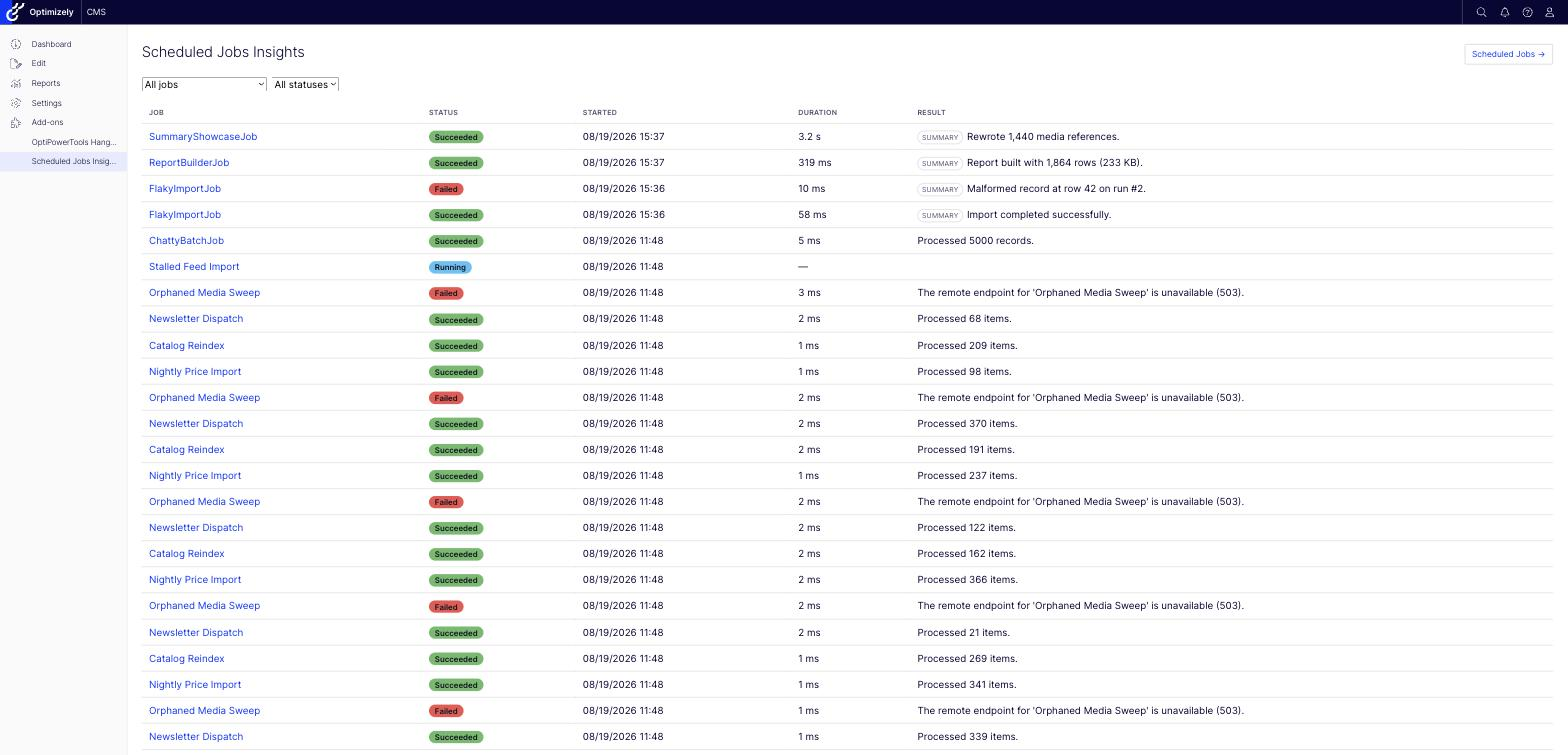
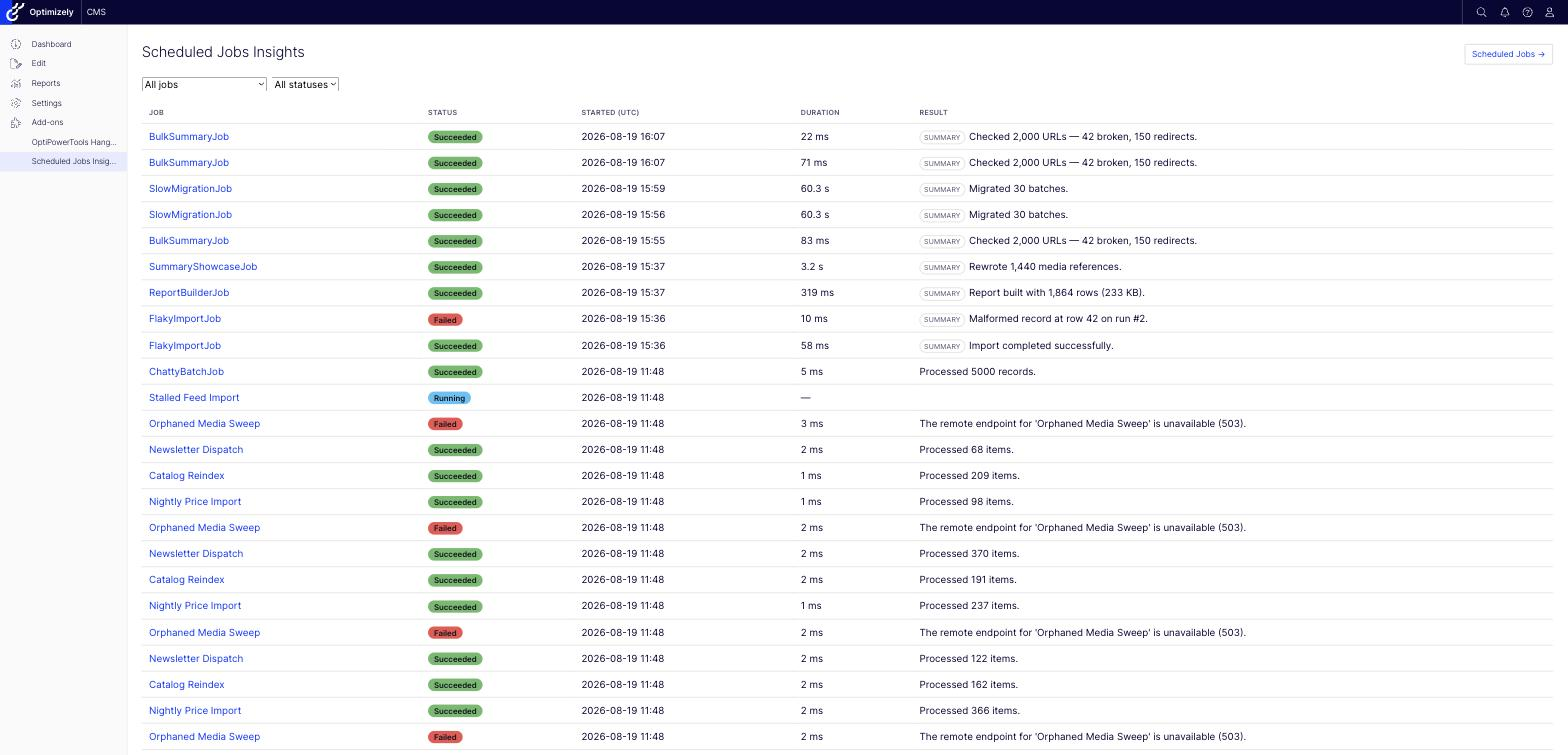
Enhance display formatting for timestamps and metrics to ensure invariant culture across environments

diff --git a/tests/OptiPowerTools.ScheduledJobsInsights.Tests/Components/DisplayFormatTests.cs b/tests/OptiPowerTools.ScheduledJobsInsights.Tests/Components/DisplayFormatTests.cs
@@ -1,0 +1,117 @@
+using System.Globalization;
+using OptiPowerTools.ScheduledJobsInsights.Components.Shared;
+
+namespace OptiPowerTools.ScheduledJobsInsights.Tests.Components;
+
+public class DisplayFormatTests
+{
+    /// <summary>
+    /// A culture whose separators are the mirror image of the invariant ones, so any accidental
+    /// reliance on the ambient culture shows up as a swapped comma and period rather than silently
+    /// passing on a developer machine that happens to be set to en-US.
+    /// </summary>
+    private static readonly CultureInfo Mismatched = new("pl-PL");
+
+    private static T InCulture<T>(CultureInfo culture, Func<T> render)
+    {
+        var previous = CultureInfo.CurrentCulture;
+        CultureInfo.CurrentCulture = culture;
+        try
+        {
+            return render();
+        }
+        finally
+        {
+            CultureInfo.CurrentCulture = previous;
+        }
+    }
+
+    [Fact]
+    public void Timestamp_RendersUtcWithAnExplicitZone()
+    {
+        // Deliberately a non-UTC offset: the value must be converted, not just printed.
+        var value = new DateTimeOffset(2026, 8, 19, 17, 37, 16, TimeSpan.FromHours(2));
+
+        Assert.Equal("2026-08-19 15:37:16 UTC", DisplayFormat.Timestamp(value));
+    }
+
+    [Fact]
+    public void CompactTimestamp_DropsSecondsAndTheZoneSuffix() =>
+        Assert.Equal(
+            "2026-08-19 15:37",
+            DisplayFormat.CompactTimestamp(new DateTimeOffset(2026, 8, 19, 15, 37, 16, TimeSpan.Zero)));
+
+    [Fact]
+    public void TimeOfDay_ConvertsToUtcAndKeepsMilliseconds() =>
+        Assert.Equal(
+            "15:37:16.123",
+            DisplayFormat.TimeOfDay(new DateTimeOffset(2026, 8, 19, 17, 37, 16, 123, TimeSpan.FromHours(2))));
+
+    [Theory]
+    [InlineData(0, "0")]
+    [InlineData(310.994, "310.99")]
+    [InlineData(1864, "1864")]
+    public void MetricValue_UsesAPeriodDecimalSeparator(double value, string expected) =>
+        Assert.Equal(expected, DisplayFormat.MetricValue(value));
+
+    [Theory]
+    [InlineData(1, "1 line")]
+    [InlineData(0, "0 lines")]
+    [InlineData(2019, "2,019 lines")]
+    public void LineCount_GroupsThousandsWithCommas(int count, string expected) =>
+        Assert.Equal(expected, DisplayFormat.LineCount(count));
+
+    [Fact]
+    public void Duration_ShowsAnEmDash_WhileStillRunning() =>
+        Assert.Equal("—", DisplayFormat.Duration(DateTimeOffset.UtcNow, completedAt: null));
+
+    [Theory]
+    [InlineData(310, "310 ms")]
+    [InlineData(999, "999 ms")]
+    [InlineData(1000, "1.0 s")]
+    [InlineData(60_400, "60.4 s")]
+    public void Duration_SwitchesToSecondsAtOneSecond(int elapsedMs, string expected)
+    {
+        var start = new DateTimeOffset(2026, 8, 19, 15, 0, 0, TimeSpan.Zero);
+
+        Assert.Equal(expected, DisplayFormat.Duration(start, start.AddMilliseconds(elapsedMs)));
+    }
+
+    [Fact]
+    public void EveryFormatter_IgnoresTheAmbientCulture()
+    {
+        // The whole point of this class. Under pl-PL the ambient separators are inverted — "1 234,5"
+        // where invariant gives "1,234.5" — so a formatter that forgot its IFormatProvider fails here
+        // while passing everywhere else.
+        var start = new DateTimeOffset(2026, 8, 19, 15, 0, 0, TimeSpan.Zero);
+
+        var rendered = InCulture(Mismatched, () => new[]
+        {
+            DisplayFormat.Timestamp(start),
+            DisplayFormat.CompactTimestamp(start),
+            DisplayFormat.TimeOfDay(start),
+            DisplayFormat.MetricValue(310.994),
+            DisplayFormat.LineCount(2019),
+            DisplayFormat.Duration(start, start.AddMilliseconds(60_400))
+        });
+
+        Assert.Equal(
+            [
+                "2026-08-19 15:00:00 UTC",
+                "2026-08-19 15:00",
+                "15:00:00.000",
+                "310.99",
+                "2,019 lines",
+                "60.4 s"
+            ],
+            rendered);
+    }
+
+    [Fact]
+    public void ResultSummaryBadge_AlsoIgnoresTheAmbientCulture()
+    {
+        var summary = string.Concat(Enumerable.Repeat("x\n", 2000));
+
+        Assert.Equal("2,000 lines · 3.9 KB", InCulture(Mismatched, () => ResultSummaryBadge.Format(summary)));
+    }
+}

diff --git a/src/OptiPowerTools.ScheduledJobsInsights/Components/Shared/DisplayFormat.cs b/src/OptiPowerTools.ScheduledJobsInsights/Components/Shared/DisplayFormat.cs
@@ -1,0 +1,72 @@
+using System.Globalization;
+
+namespace OptiPowerTools.ScheduledJobsInsights.Components.Shared;
+
+/// <summary>
+/// Every number and timestamp the two views render goes through here, so none of them depend on the
+/// ambient culture or the server's time zone.
+/// </summary>
+/// <remarks>
+/// <para>
+/// <b>Numbers are invariant.</b> Durations, metric values and counts are diagnostics sitting inside
+/// hard-coded English labels, and they get copied into tickets and compared between environments —
+/// a duration that reads "310.99" on one host and "310,99" on another is worse than useless for
+/// that. There is no reader who benefits from a localized GC collection count.
+/// </para>
+/// <para>
+/// <b>Timestamps are UTC, and say so.</b> These previously used <c>DateTimeOffset.LocalDateTime</c>,
+/// which converts to the *server's* zone, not the viewer's — so on a UTC container an administrator
+/// in another zone was shown UTC presented as if it were local time, with nothing on the page
+/// indicating otherwise. Rendering UTC explicitly is unambiguous, stable across environments, and
+/// matches how the values are stored. Converting to the viewer's own zone would be friendlier still,
+/// but needs JS interop to discover it and is a separate change.
+/// </para>
+/// <para>
+/// The ISO-style ordering (yyyy-MM-dd) is deliberate too: it sorts, it is unambiguous to every
+/// reader, and it sidesteps the day/month ordering that makes an invariant "08/19/2026" actively
+/// misleading outside the US.
+/// </para>
+/// </remarks>
+internal static class DisplayFormat
+{
+    /// <summary>Full timestamp with an explicit zone — "2026-08-19 15:37:16 UTC".</summary>
+    public static string Timestamp(DateTimeOffset value) =>
+        value.UtcDateTime.ToString("yyyy-MM-dd HH:mm:ss", CultureInfo.InvariantCulture) + " UTC";
+
+    /// <summary>
+    /// Timestamp without seconds, for the execution list. The column header carries the "(UTC)"
+    /// rather than repeating it on every one of fifty rows.
+    /// </summary>
+    public static string CompactTimestamp(DateTimeOffset value) =>
+        value.UtcDateTime.ToString("yyyy-MM-dd HH:mm", CultureInfo.InvariantCulture);
+
+    /// <summary>
+    /// Time of day with milliseconds, for console log lines. No date and no zone suffix: a log line
+    /// is read relative to the lines around it, and the page states the zone once above.
+    /// </summary>
+    public static string TimeOfDay(DateTimeOffset value) =>
+        value.UtcDateTime.ToString("HH:mm:ss.fff", CultureInfo.InvariantCulture);
+
+    /// <summary>A line count with its unit — "1 line", "2,019 lines".</summary>
+    public static string LineCount(int count) =>
+        count == 1 ? "1 line" : count.ToString("N0", CultureInfo.InvariantCulture) + " lines";
+
+    /// <summary>A metric's value, trimmed of trailing zeros.</summary>
+    public static string MetricValue(double value) =>
+        value.ToString("0.##", CultureInfo.InvariantCulture);
+
+    /// <summary>
+    /// How long an execution took, or an em dash while it is still running. Sub-second runs are shown
+    /// in milliseconds because most jobs finish in that range and "0.0 s" tells the reader nothing.
+    /// </summary>
+    public static string Duration(DateTimeOffset startedAt, DateTimeOffset? completedAt)
+    {
+        if (completedAt is null)
+            return "—";
+
+        var duration = completedAt.Value - startedAt;
+        return duration.TotalSeconds < 1
+            ? duration.TotalMilliseconds.ToString("0", CultureInfo.InvariantCulture) + " ms"
+            : duration.TotalSeconds.ToString("0.0", CultureInfo.InvariantCulture) + " s";
+    }
+}

diff --git a/src/OptiPowerTools.ScheduledJobsInsights/Components/Shared/ResultSummaryBadge.cs b/src/OptiPowerTools.ScheduledJobsInsights/Components/Shared/ResultSummaryBadge.cs
@@ -17,20 +17,12 @@ internal static class ResultSummaryBadge
 {
     /// <summary>Formats a summary's size as "1,240 lines · 38.4 KB".</summary>
     /// <remarks>
-    /// Formatted with the invariant culture on purpose. This runs on the server, so the ambient
-    /// culture is the host's, not the reader's — on a machine set to pl-PL the same badge renders
-    /// "2.000 lines · 3,9 KB", mixing Polish separators into a label that is hard-coded English. The
-    /// UI has no localization, so invariant is the only combination that is internally consistent.
+    /// Invariant, via <see cref="DisplayFormat"/> — see the reasoning there. In short: this runs on
+    /// the server, so the ambient culture is the host's rather than the reader's, and on a machine
+    /// set to pl-PL the badge rendered "2.000 lines · 3,9 KB" beside hard-coded English labels.
     /// </remarks>
-    public static string Format(string summary)
-    {
-        var lines = CountLines(summary);
-        var size = FormatSize(Encoding.UTF8.GetByteCount(summary));
-
-        return lines == 1
-            ? $"1 line · {size}"
-            : string.Create(CultureInfo.InvariantCulture, $"{lines:N0} lines · {size}");
-    }
+    public static string Format(string summary) =>
+        $"{DisplayFormat.LineCount(CountLines(summary))} · {FormatSize(Encoding.UTF8.GetByteCount(summary))}";
 
     /// <summary>
     /// Counts the lines in a summary, treating a trailing newline as ending the last line rather

diff --git a/README.md b/README.md
@@ -170,6 +170,12 @@ Code that records an execution without being a scheduled job at all can call
 The CMS menu item opens a paginated execution list — job name, status, start time, duration, result —
 with filters for job and status, and a link across to the CMS's own **Scheduled Jobs** page.
 
+**All timestamps are UTC** and labelled as such. They are not converted to the viewer's time zone:
+this is a server-rendered UI, so the only zone it could reach for without asking the browser is the
+*server's*, which is rarely the reader's and was previously shown with nothing to say so. Numbers are
+formatted invariantly for the same reason — a duration must read the same on your machine, on CI and
+in production, because that is where it gets compared.
+
 Rows whose run recorded a result summary are marked **summary** in the Result column.
 
 Clicking a row opens the detail view for that run: a monospace, colour-coded, virtualised log stream,
